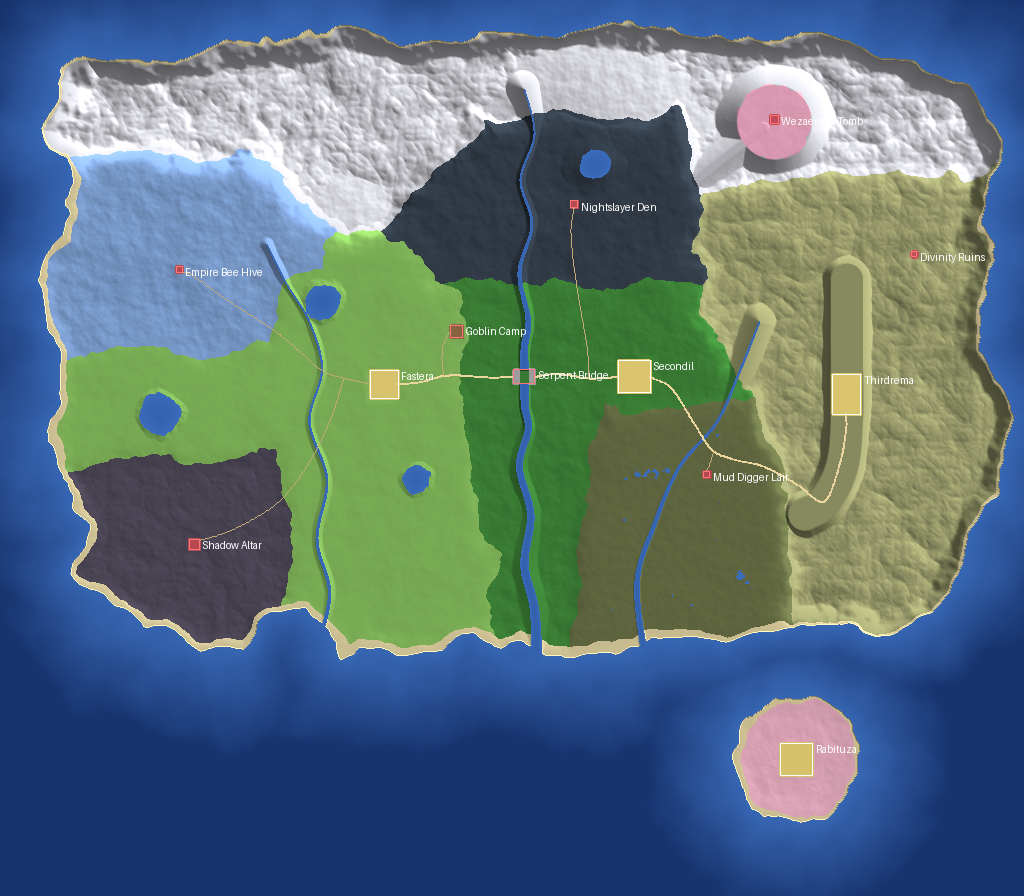
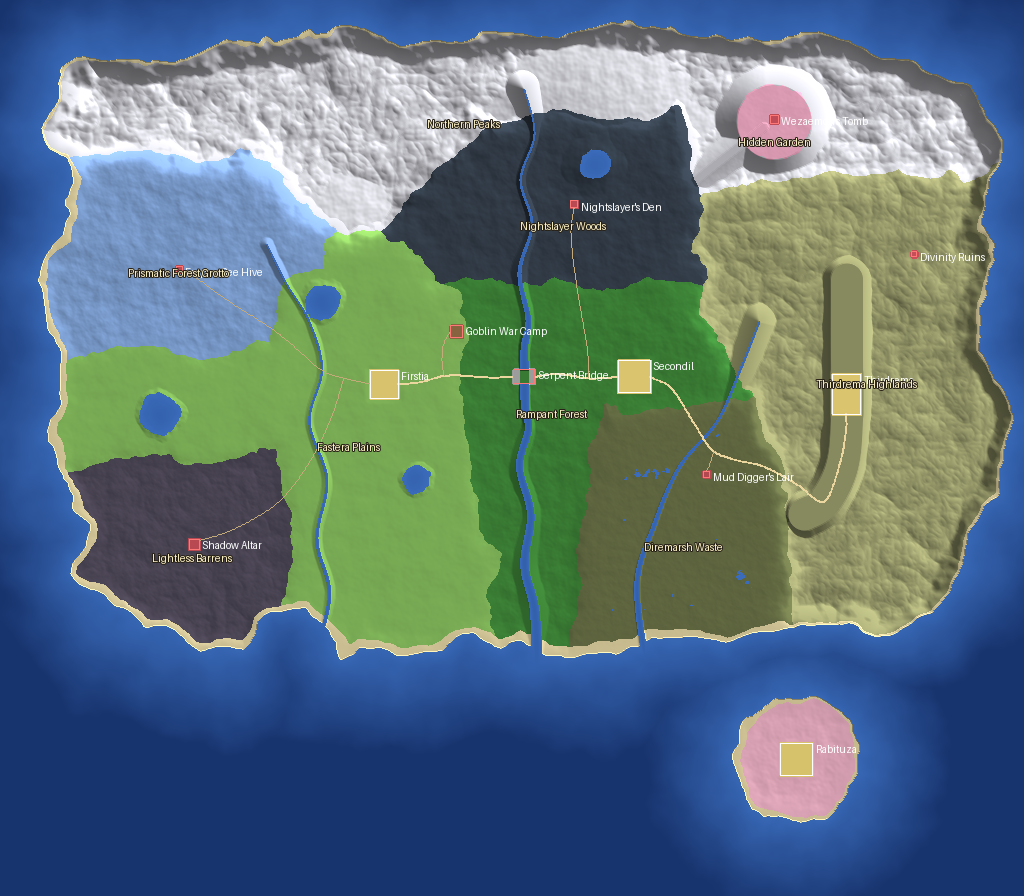
Clear site footprints before placing templates; tether the Ravenous Snake to its bridge
- Town and landmark templates no longer carry air above their ground, so the designed-structure
  piece clears terrain and plants above each site's ground level before placing it.
- The Ravenous Snake remembers where it rose: dragged more than 48 blocks away it returns, and
  with nobody within 80 blocks for 30 s it sinks back into the river, so the bridge never
  collects serpents and the ambush can always fire again.
- Story test checks the serpent it spawned directly (a fake player keeps no chunks loaded).
- Map picture labels Firstia and the regions.

Claude-Session: https://claude.ai/code/session_015kHJ5V7CLK7qm1JiEvedf1

diff --git a/shangri-la-frontier/src/main/java/com/slfrontier/entity/boss/RavenousSnakeEntity.java b/shangri-la-frontier/src/main/java/com/slfrontier/entity/boss/RavenousSnakeEntity.java
@@ -3,7 +3,10 @@ package com.slfrontier.entity.boss;
 import com.slfrontier.entity.FrontierBoss;
 import com.slfrontier.fx.Fx;
 import com.slfrontier.quest.Story;
+import net.minecraft.core.BlockPos;
 import net.minecraft.core.particles.ParticleTypes;
+import net.minecraft.nbt.CompoundTag;
+import net.minecraft.nbt.NbtUtils;
 import net.minecraft.server.level.ServerLevel;
 import net.minecraft.sounds.SoundEvent;
 import net.minecraft.sounds.SoundEvents;
@@ -19,6 +22,7 @@ import net.minecraft.world.entity.ai.attributes.Attributes;
 import net.minecraft.world.entity.monster.Monster;
 import net.minecraft.world.level.Level;
 import net.minecraft.world.phys.Vec3;
+import org.jetbrains.annotations.Nullable;
 
 import java.util.ArrayList;
 import java.util.List;
@@ -35,8 +39,48 @@ public class RavenousSnakeEntity extends FrontierBoss {
     private final List<Vec3> marks = new ArrayList<>();
     private Vec3 aim = Vec3.ZERO;
 
+    /** Where it rose from the river: it never strays far from the bridge (null when summoned elsewhere). */
+    @Nullable
+    private BlockPos home;
+    private int lonely;
+
     public RavenousSnakeEntity(EntityType<? extends Monster> type, Level level) {
         super(type, level, 12, 400, BossEvent.BossBarColor.GREEN);
+    }
+
+    public void setHome(BlockPos pos) {
+        home = pos.immutable();
+    }
+
+    @Override
+    protected void customServerAiStep() {
+        super.customServerAiStep();
+        if (home == null || tickCount % 20 != 0) return;
+        if (level().getNearestPlayer(this, 80) == null) {
+            // Nobody has come for half a minute: it sinks back into the river until someone returns.
+            if (++lonely >= 30) {
+                ((ServerLevel) level()).sendParticles(ParticleTypes.SPLASH, getX(), getY() + 1, getZ(), 60, 1.5, 0.5, 1.5, 0.2);
+                discard();
+            }
+            return;
+        }
+        lonely = 0;
+        if (distanceToSqr(Vec3.atBottomCenterOf(home)) > 48 * 48) {
+            setTarget(null);
+            teleportTo(home.getX() + 0.5, home.getY(), home.getZ() + 0.5);
+        }
+    }
+
+    @Override
+    public void addAdditionalSaveData(CompoundTag tag) {
+        super.addAdditionalSaveData(tag);
+        if (home != null) tag.put("Home", NbtUtils.writeBlockPos(home));
+    }
+
+    @Override
+    public void readAdditionalSaveData(CompoundTag tag) {
+        super.readAdditionalSaveData(tag);
+        home = NbtUtils.readBlockPos(tag, "Home").orElse(null);
     }
 
     public static AttributeSupplier.Builder createAttributes() {

diff --git a/shangri-la-frontier/src/main/java/com/slfrontier/world/design/DesignedPiece.java b/shangri-la-frontier/src/main/java/com/slfrontier/world/design/DesignedPiece.java
@@ -3,7 +3,12 @@ package com.slfrontier.world.design;
 import net.minecraft.core.BlockPos;
 import net.minecraft.nbt.CompoundTag;
 import net.minecraft.util.RandomSource;
+import net.minecraft.world.level.ChunkPos;
 import net.minecraft.world.level.ServerLevelAccessor;
+import net.minecraft.world.level.StructureManager;
+import net.minecraft.world.level.WorldGenLevel;
+import net.minecraft.world.level.block.Blocks;
+import net.minecraft.world.level.chunk.ChunkGenerator;
 import net.minecraft.world.level.levelgen.structure.BoundingBox;
 import net.minecraft.world.level.levelgen.structure.TemplateStructurePiece;
 import net.minecraft.world.level.levelgen.structure.templatesystem.BlockIgnoreProcessor;
@@ -23,6 +28,26 @@ public class DesignedPiece extends TemplateStructurePiece {
 
     private static StructurePlaceSettings settings() {
         return new StructurePlaceSettings().addProcessor(BlockIgnoreProcessor.STRUCTURE_BLOCK);
+    }
+
+    /** Templates keep no air above their ground, so first clear whatever terrain or plants stand in the footprint. */
+    @Override
+    public void postProcess(WorldGenLevel level, StructureManager structures, ChunkGenerator generator, RandomSource random,
+                            BoundingBox box, ChunkPos chunk, BlockPos pivot) {
+        FrontierDesign.Site site = FrontierDesign.get().sites().stream()
+                .filter(s -> s.template().toString().equals(templateName)).findFirst().orElse(null);
+        if (site != null) {
+            BoundingBox b = getBoundingBox();
+            BlockPos.MutableBlockPos p = new BlockPos.MutableBlockPos();
+            for (int x = Math.max(b.minX(), box.minX()); x <= Math.min(b.maxX(), box.maxX()); x++) {
+                for (int z = Math.max(b.minZ(), box.minZ()); z <= Math.min(b.maxZ(), box.maxZ()); z++) {
+                    for (int y = site.top() + 1; y <= b.maxY(); y++) {
+                        if (!level.getBlockState(p.set(x, y, z)).isAir()) level.setBlock(p, Blocks.AIR.defaultBlockState(), 2);
+                    }
+                }
+            }
+        }
+        super.postProcess(level, structures, generator, random, box, chunk, pivot);
     }
 
     @Override

diff --git a/shangri-la-frontier/src/main/java/com/slfrontier/quest/Story.java b/shangri-la-frontier/src/main/java/com/slfrontier/quest/Story.java
@@ -589,6 +589,14 @@ public final class Story {
     }
 
     private static long snakeReadyAt;
+    private static java.lang.ref.WeakReference<RavenousSnakeEntity> lastSnake = new java.lang.ref.WeakReference<>(null);
+
+    /** The serpent that rose last, if it's still around (for the story test). */
+    @Nullable
+    public static RavenousSnakeEntity lastSnake() {
+        RavenousSnakeEntity snake = lastSnake.get();
+        return snake == null || snake.isRemoved() ? null : snake;
+    }
 
     /** The serpent rises out of the river under the bridge. */
     private static void spawnRavenousSnake(ServerLevel level, ServerPlayer player, BlockPos bridge) {
@@ -600,7 +608,8 @@ public final class Story {
         snake.moveTo(at.getX() + 0.5, at.getY(), at.getZ() + 0.5, 0, 0);
         snake.finalizeSpawn(level, level.getCurrentDifficultyAt(at), MobSpawnType.EVENT, null);
         snake.setTarget(player);
-        level.addFreshEntity(snake);
+        snake.setHome(at);
+        if (level.addFreshEntity(snake)) lastSnake = new java.lang.ref.WeakReference<>(snake);
         level.sendParticles(ParticleTypes.SPLASH, snake.getX(), snake.getY() + 1, snake.getZ(), 120, 2, 1, 2, 0.2);
         level.playSound(null, at, SoundEvents.ELDER_GUARDIAN_CURSE, SoundSource.HOSTILE, 1.5f, 0.6f);
         ModNetwork.announce(player, "announce.slfrontier.area_boss_appears", "entity.slfrontier.ravenous_snake", 0x8AE070);

diff --git a/shangri-la-frontier/src/main/java/com/slfrontier/command/StoryTest.java b/shangri-la-frontier/src/main/java/com/slfrontier/command/StoryTest.java
@@ -155,9 +155,13 @@ public final class StoryTest {
             data.setStage(QuestStage.RAVENOUS_SNAKE);
             player.moveTo(bridge.getX() + 0.5, bridge.getY(), bridge.getZ() + 0.5);
             Story.tickPlayer(player);
-            if (frontier.getEntitiesOfClass(RavenousSnakeEntity.class, player.getBoundingBox().inflate(64)).isEmpty()) {
-                throw new IllegalStateException("the snake did not appear");
+            // A fake player doesn't keep chunks loaded, so the new entity isn't listed until the next tick;
+            // check the serpent itself.
+            RavenousSnakeEntity snake = Story.lastSnake();
+            if (snake == null || snake.level() != frontier || snake.distanceTo(player) > 64) {
+                throw new IllegalStateException("the snake did not appear (bridge " + bridge + ", player " + player.blockPosition() + ")");
             }
+            snake.discard();
             player.moveTo(spawn.getX() + 0.5, spawn.getY(), spawn.getZ() + 0.5);
         });
         // Every boss runs its whole moveset once against the test player.

diff --git a/shangri-la-frontier/src/main/java/com/slfrontier/client/FrontierVision.java b/shangri-la-frontier/src/main/java/com/slfrontier/client/FrontierVision.java
@@ -30,6 +30,7 @@ public final class FrontierVision {
     }
 
     private static final Grade DEFAULT = new Grade(1.12f, 1.06f, 0.03f, 1f, 1f, 1f, 0.35f, 0.32f);
+    private static boolean announced;
     private static final float[] current = {1.12f, 1.06f, 0.03f, 1f, 1f, 1f, 0.35f, 0.32f};
 
     private FrontierVision() {
@@ -45,6 +46,10 @@ public final class FrontierVision {
                 && SlfConfig.FRONTIER_VISION.get();
         if (wanted && effect == null) {
             renderer.loadEffect(EFFECT);
+            if (!announced && renderer.currentEffect() != null) {
+                announced = true;
+                SLFrontier.LOGGER.info("Frontier Vision on");
+            }
         } else if (!wanted && ours) {
             renderer.shutdownEffect();
         }
